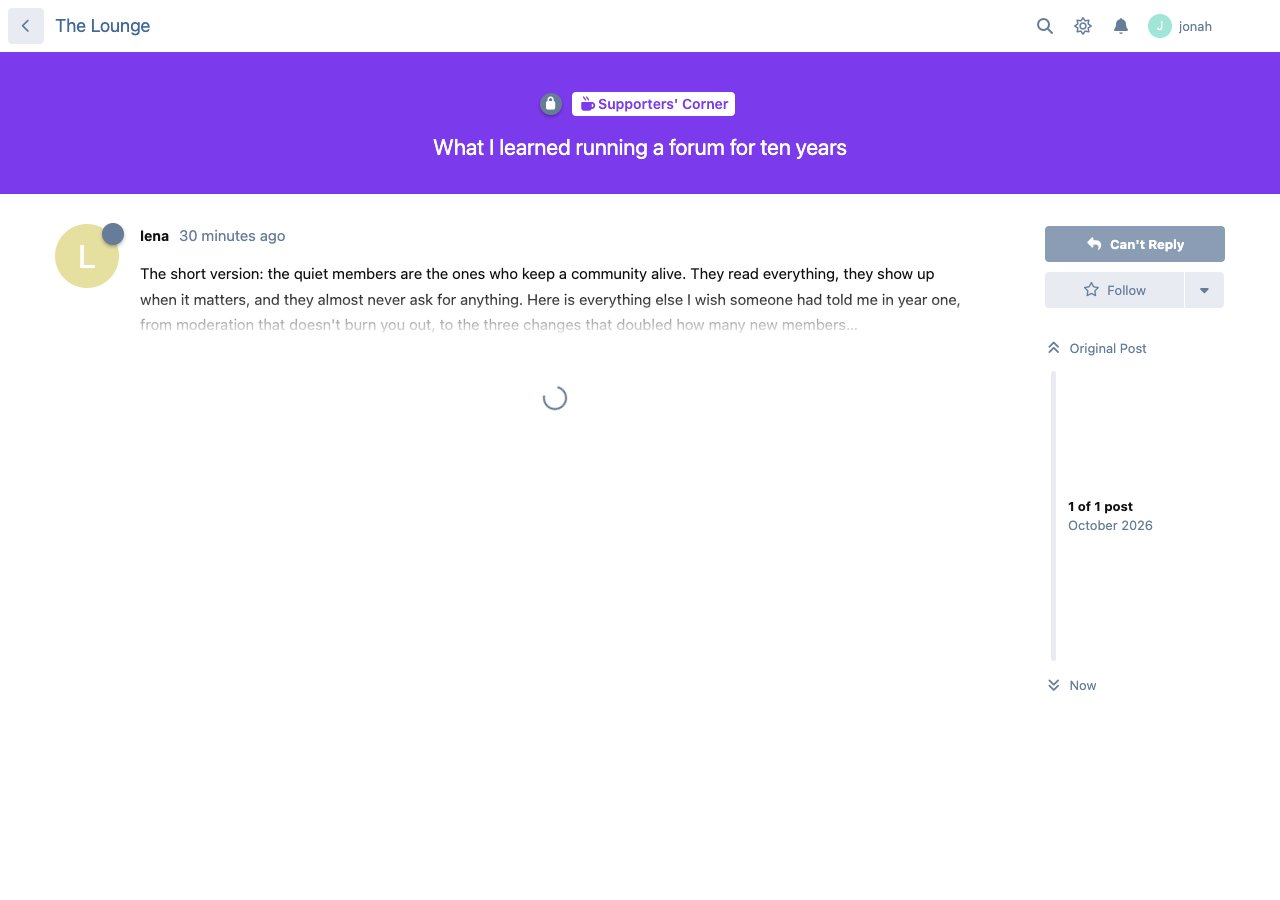
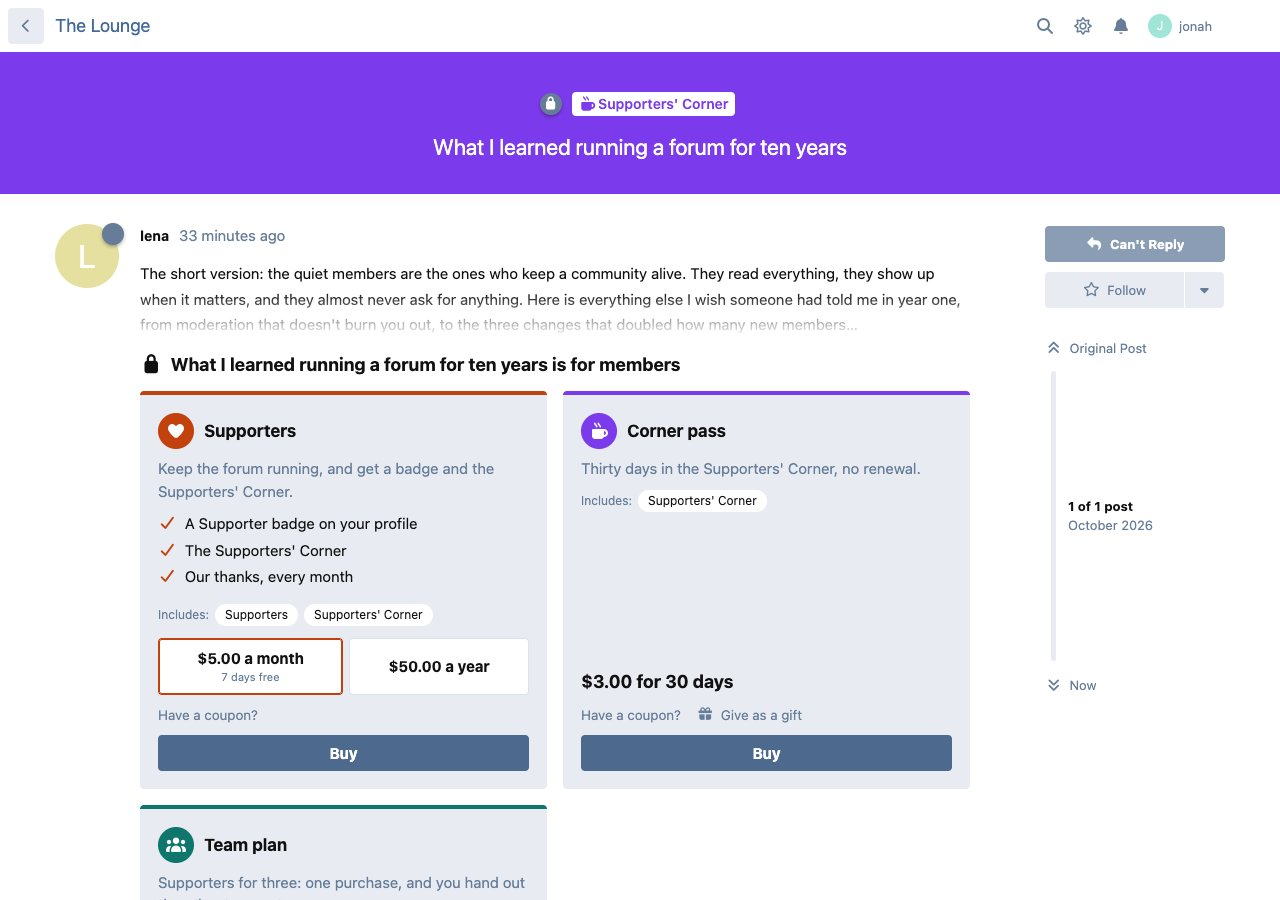
docs: README screenshots on the default theme

Changed region(s): [[0.0938, 0.3733, 0.75, 1.0]]

diff --git a/README.md b/README.md
@@ -6,6 +6,8 @@ Sell memberships, premium tags, single discussions, posting passes, bumps and ti
 
 Kiosk is free and MIT-licensed. You choose what is for sale; tax is up to you.
 
+![A paid discussion seen from outside: its opening words, faded, and how to get the rest](screenshots/teaser-discussion.jpg)
+
 ## What you can sell
 
 Every product unlocks one or more things, and has one or more prices.
@@ -42,6 +44,24 @@ A price can also be a **team plan**: give it more than one seat, and the buyer h
 - **Grace days**: a renewal that is a day or two late doesn't lock a paying member out.
 - **Moving from floxum/payments**: `php flarum kiosk:import-floxum` (see below).
 - Translatable, works in light and dark mode, and adds about 7 KB (gzipped) to the JavaScript every page loads. The store pages load only when opened.
+
+## Screenshots
+
+| The store | A paid section as a teaser |
+| --- | --- |
+| ![The store](screenshots/store.jpg) | ![A teaser tag](screenshots/teaser-tag.jpg) |
+
+| A coupon on a product | My purchases, with a team plan's seats |
+| --- | --- |
+| ![A product card with a coupon applied](screenshots/card-coupon.jpg) | ![My purchases](screenshots/purchases.jpg) |
+
+| The admin's setup checklist | Coupons |
+| --- | --- |
+| ![The admin overview](screenshots/admin-overview.jpg) | ![The coupons tab](screenshots/admin-coupons.jpg) |
+
+| Products | Payment providers |
+| --- | --- |
+| ![The products tab](screenshots/admin-products.jpg) | ![The payments tab](screenshots/admin-payments.jpg) |
 
 ## Installation
 
